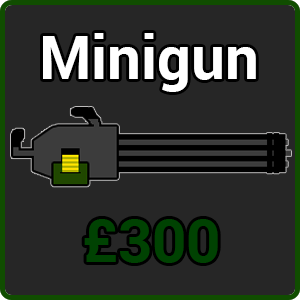
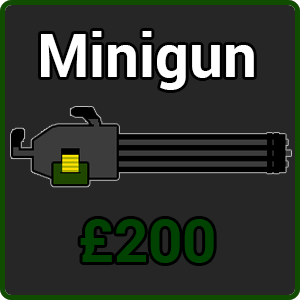
Minigun now costs 200.

Changed region(s): [[0.12, 0.09, 0.87, 0.33], [0.24, 0.72, 0.75, 0.9]]

diff --git a/TanksV1/src/Tanks/UIScreens/ShopScreen.java b/TanksV1/src/Tanks/UIScreens/ShopScreen.java
@@ -39,7 +39,7 @@ public class ShopScreen extends UIScreen
         addUpgradeButton((screenWidth - upgradeButtonWidth), upgradeButtonHeight, upgradeButtonWidth, upgradeButtonHeight, Textures.SPIKES, Textures.SPIKES_HOVER, Textures.SPIKES_CLICKED, player, "spikes_upgrade", 250);
 
         //Upgrade buttons - Second
-        addUpgradeButton(upgradeButtonWidth, (upgradeButtonHeight * 2) + 100, upgradeButtonWidth, upgradeButtonHeight, Textures.MINIGUN, Textures.MINIGUN_HOVER, Textures.MINIGUN_CLICKED, player, "minigun_upgrade", 300);
+        addUpgradeButton(upgradeButtonWidth, (upgradeButtonHeight * 2) + 100, upgradeButtonWidth, upgradeButtonHeight, Textures.MINIGUN, Textures.MINIGUN_HOVER, Textures.MINIGUN_CLICKED, player, "minigun_upgrade", 200);
         addUpgradeButton((screenCenterX - upgradeButtonWidth), (upgradeButtonHeight * 2) + 100, upgradeButtonWidth, upgradeButtonHeight, Textures.RAILGUN, Textures.RAILGUN_HOVER, Textures.RAILGUN_CLICKED, player, "railgun_upgrade", 300);
         addUpgradeButton((screenCenterX + upgradeButtonWidth), (upgradeButtonHeight * 2) + 100, upgradeButtonWidth, upgradeButtonHeight, Textures.SONIC, Textures.SONIC_HOVER, Textures.SONIC_CLICKED, player, "sonicmode_upgrade", 150);
         addUpgradeButton((screenWidth - upgradeButtonWidth), (upgradeButtonHeight * 2) + 100, upgradeButtonWidth, upgradeButtonHeight, Textures.ARMOUR, Textures.ARMOUR_HOVER, Textures.ARMOUR_CLICKED, player, "armour_upgrade", 200);
